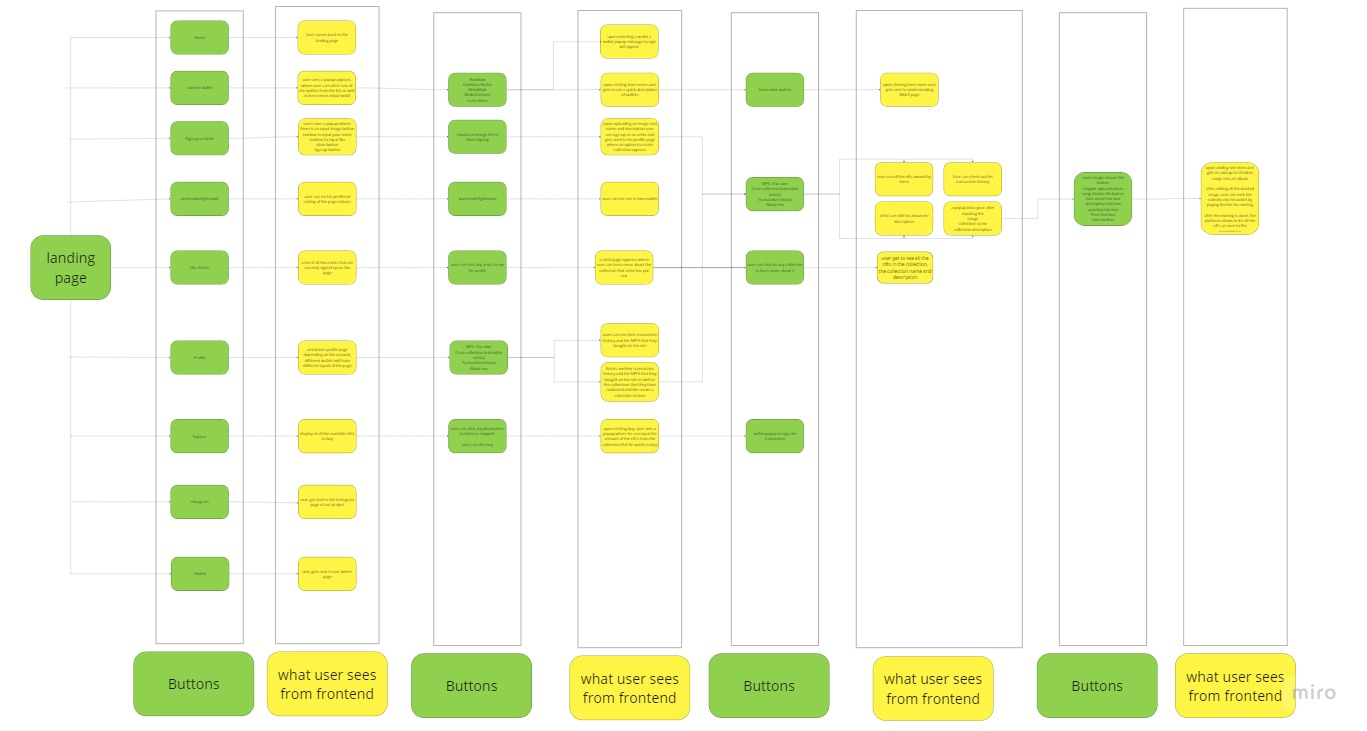
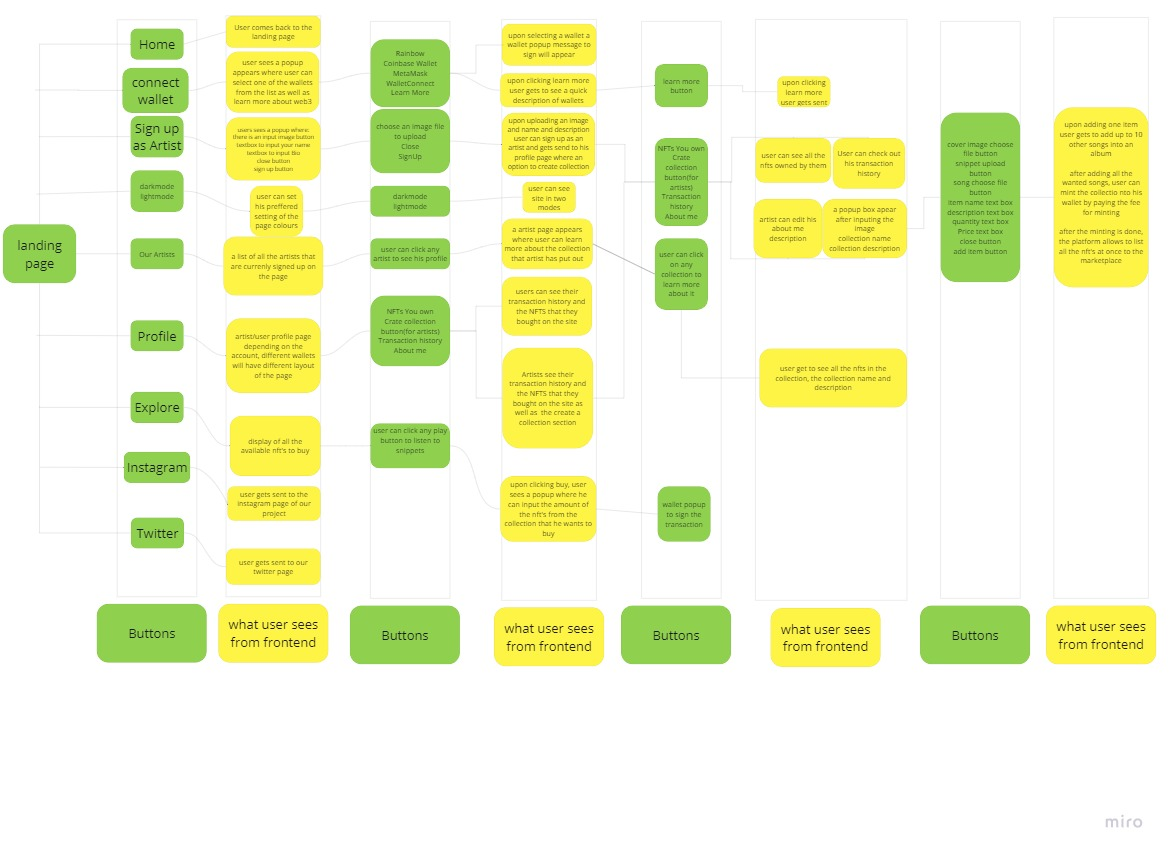
update

diff --git a/README.md b/README.md
@@ -56,7 +56,7 @@ databse for artists on the site -  https://cat-mouse.up.railway.app/getartist
 
 Users Journeys
 ---------------------------------------------------------------------------------------------------------------------------------------------------------------------------
-![User Journeys](./image.png)
+![User Journeys](./userjourneys.jpg)
 
 
 
